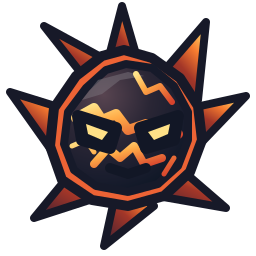
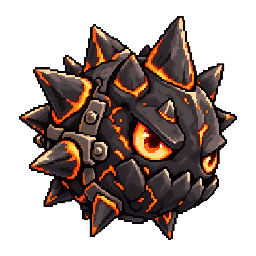
M6: replace rejected spike art with selected GPT Image variant A

diff --git a/assets/source/district-01/hazards/export_molten_spike.py b/assets/source/district-01/hazards/export_molten_spike.py
@@ -1,0 +1,32 @@
+"""Package the selected generated artwork as a centered transparent runtime PNG."""
+
+from pathlib import Path
+
+from PIL import Image
+
+
+ROOT = Path(__file__).resolve().parents[4]
+SOURCE = Path(__file__).with_name("molten-spike-A-gpt-image.png")
+TARGET = ROOT / "public/assets/m6/molten-spike-trial.png"
+
+
+def main() -> None:
+    source = Image.open(SOURCE).convert("RGBA")
+    opaque_enough = source.getchannel("A").point(
+        lambda alpha: 255 if alpha > 24 else 0
+    )
+    bounds = opaque_enough.getbbox()
+    if bounds is None:
+        raise ValueError("The source artwork has no visible subject")
+
+    artwork = source.crop(bounds)
+    artwork.thumbnail((224, 224), Image.Resampling.NEAREST)
+    canvas = Image.new("RGBA", (256, 256), (0, 0, 0, 0))
+    canvas.alpha_composite(
+        artwork, ((256 - artwork.width) // 2, (256 - artwork.height) // 2)
+    )
+    canvas.save(TARGET, optimize=True)
+
+
+if __name__ == "__main__":
+    main()

diff --git a/assets/source/district-01/hazards/README.md b/assets/source/district-01/hazards/README.md
@@ -1,9 +1,19 @@
-# Molten spike — one M6 art trial
+# Molten spike — M6 hazard art trial
 
-- `molten-spike-trial.svg` is the editable, grouped vector source: spikes, shell, fissures, and face. It is an **alternative 2D treatment**, not native pixel art and not an accepted production style.
-- `public/assets/m6/molten-spike-trial.png` is the transparent 256 × 256 runtime export. Re-export with `inkscape assets/source/district-01/hazards/molten-spike-trial.svg --export-filename=public/assets/m6/molten-spike-trial.png --export-width=256 --export-height=256`.
-- Source anchor: (64, 64) in its 128 × 128 SVG viewBox; runtime image anchor: center. The trial renders at 72 × 72 logical units for a centered 48 × 48 static collision box. Visible spikes project outside the inner box; the collision rules do not read the image.
-- Core colors: charcoal/indigo shell (`#181c2d`), orange lava (`#f67b30`), pale hot eyes (`#ffe187`), dark outline (`#171928`). These are trial colors only.
-- No external glow, background, or baked shadow. Smooth antialiasing at the contour is intentional for this vector alternative; do not describe the output as a pixel sprite.
+The Game Director selected **variant A** for an in-run test. This is approval of
+the trial direction, not approval of the final sprite or the full M6 art style.
 
-The authored trial pattern is `m6-trial-molten-spike-upper`, appended to the existing M5 AUTO catalog. It retains a lower safe coin route. Test in a normal landscape run beside the placeholder courier and ordinary coins, and compare legibility and apparent collision extent on a phone before accepting or scaling this style.
+- `molten-spike-A-gpt-image.png` is the unmodified source artwork generated with
+  the built-in GPT Image Generation tool. No SVG or hand-drawn reconstruction is
+  part of this asset.
+- `public/assets/m6/molten-spike-trial.png` is the 256 × 256 transparent runtime
+  export. Run `python3 assets/source/district-01/hazards/export_molten_spike.py`
+  from the repository root to reproduce it. Export needs Python and Pillow.
+- The exporter crops the source at alpha > 24, uses nearest-neighbor sampling
+  to fit inside 224 × 224, and centers the result on the transparent 256 × 256
+  canvas. The game renders this centered image at 72 × 72 logical units over
+  a 48 × 48 static collision box. Collision never reads the artwork.
+
+The authored `m6-trial-molten-spike-upper` pattern retains a lower safe coin
+route. Compare the spike with the courier, coins and hazards during an actual
+landscape phone run before accepting its final size, colors or detail density.
